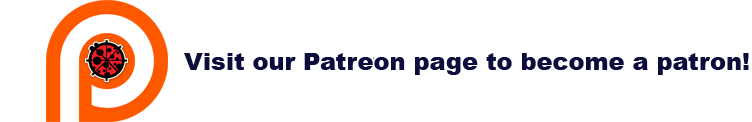
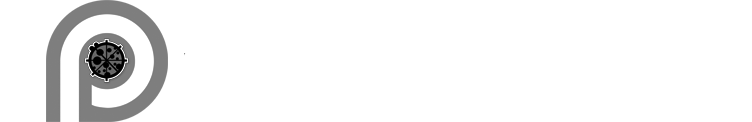
fix(*): Update image for patreon expired

Changed region(s): [[0.0612, 0.0, 1.0, 1.0]]

diff --git a/membership.html b/membership.html
@@ -109,7 +109,7 @@
           <div class="col-lg-12">
             <p class="section-subcontent">
               <a href="https://www.patreon.com/ladybug_tools" target="_blank">
-                <img class="img-fluid d-block m-auto" src="./assets/img/membership/patreon_ladybug.png" />
+                <img class="img-fluid d-block m-auto" src="./assets/img/membership/patreon_expired.png" />
               </a>
             </p>
               <hr class="primary">
